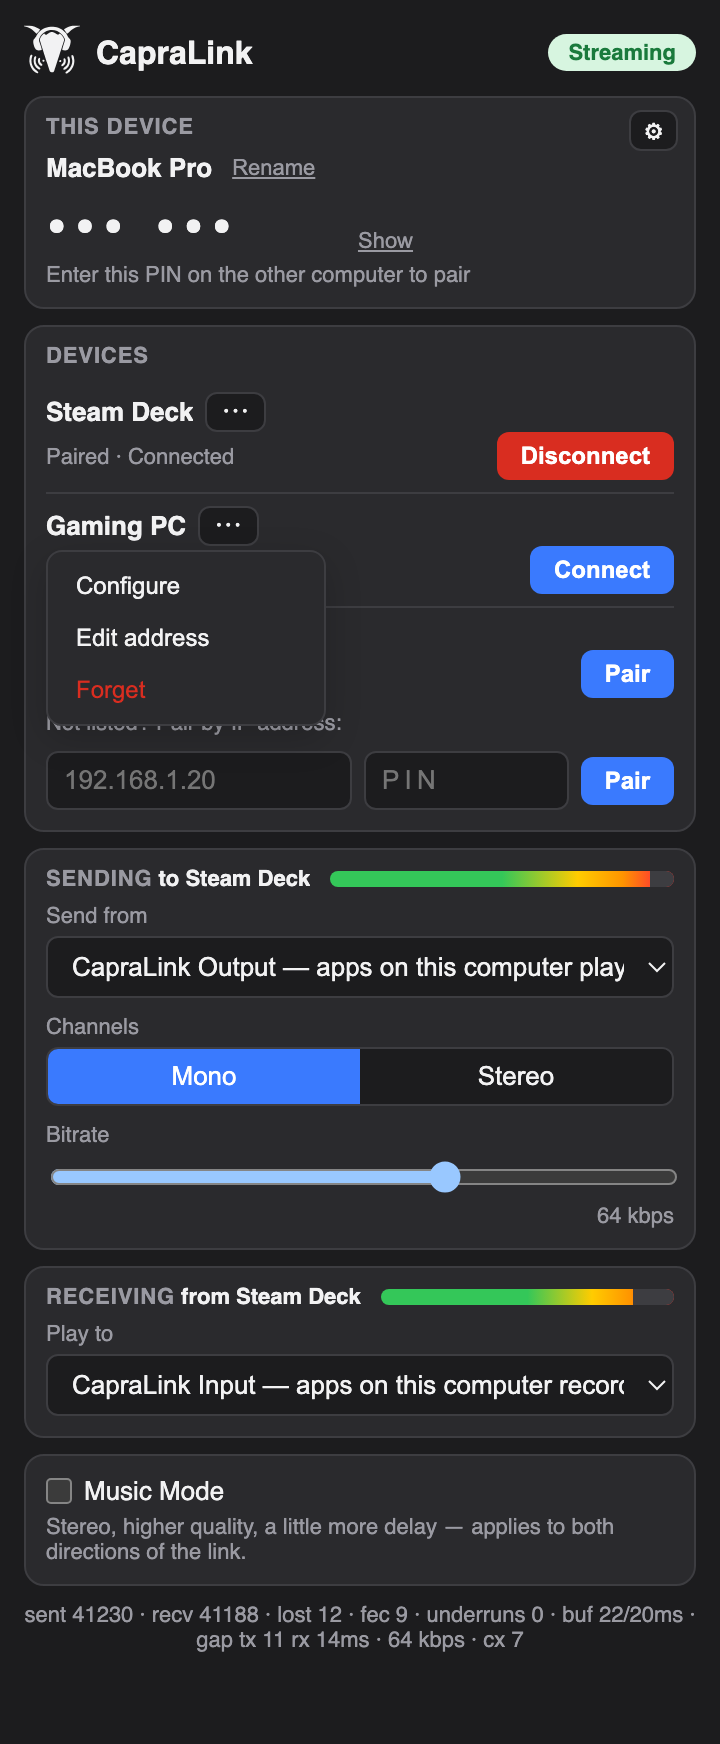
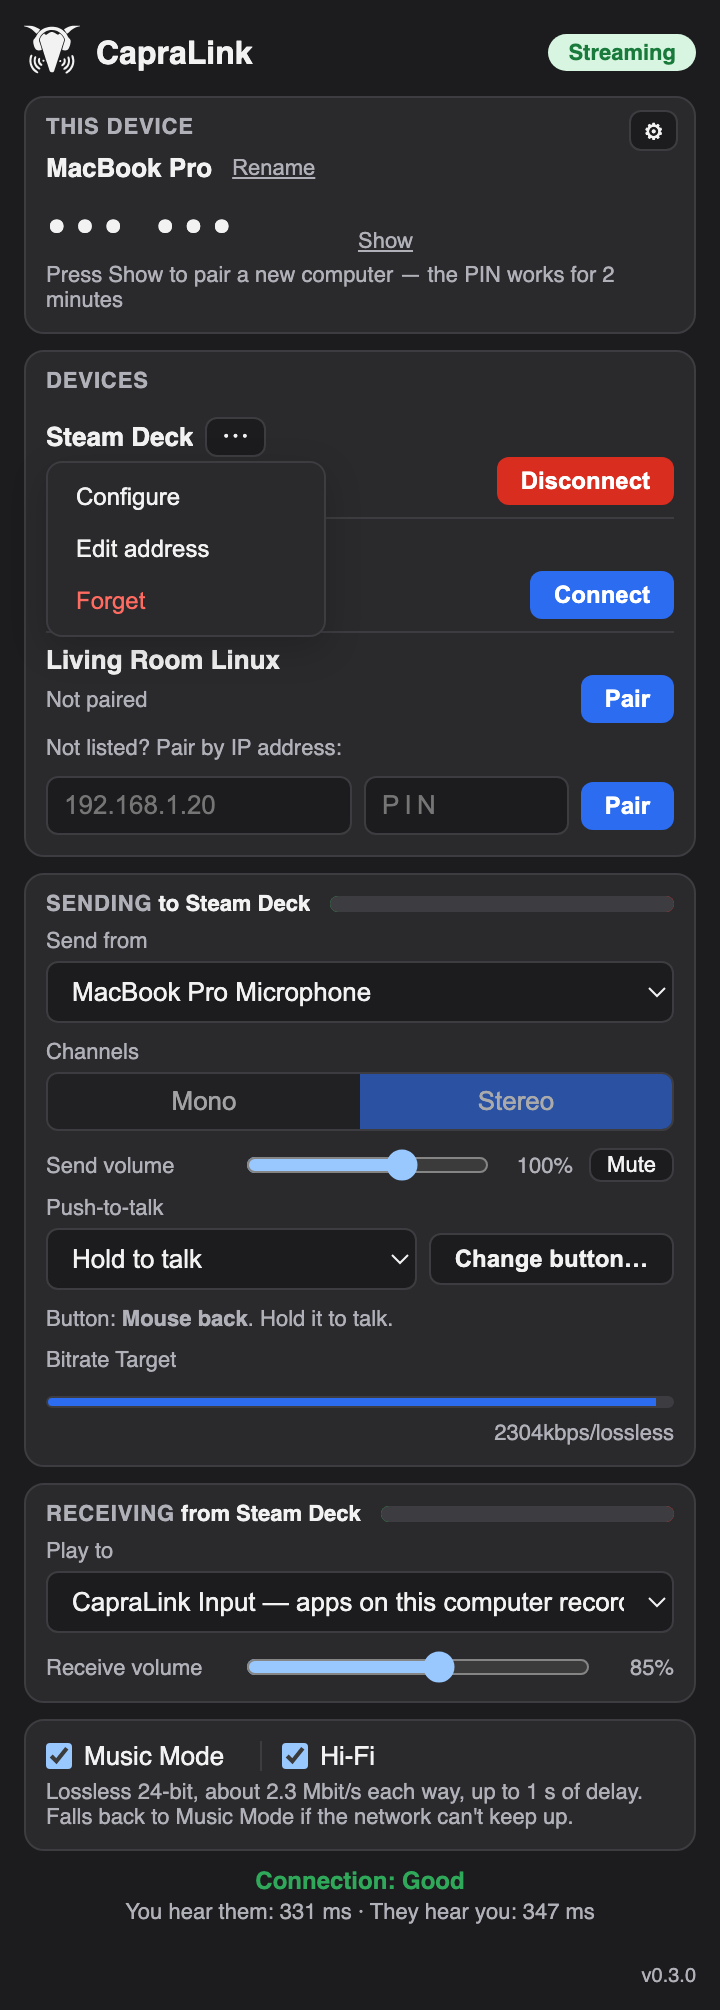
README: new screenshots of the 0.3.0 window; Hi-Fi named Music Mode/Hi-Fi

diff --git a/README.md b/README.md
@@ -46,7 +46,7 @@ next to a game. CapraLink is meant to be set up once, stay in the tray, and get 
   <img src="docs/screenshots/configure.png" width="260" alt="Configuring another computer remotely">
 </p>
 
-<p align="center"><sub>Streaming to a Steam Deck · a device's menu · changing another computer's settings remotely</sub></p>
+<p align="center"><sub>Streaming to a Steam Deck with push-to-talk and Music Mode/Hi-Fi · a device's menu · changing another computer's settings remotely</sub></p>
 
 ## Features
 
@@ -58,7 +58,7 @@ next to a game. CapraLink is meant to be set up once, stay in the tray, and get 
 - **Low delay, light on resources** — Opus audio at 48 kHz with 10 ms frames; bitrate adapts from
   8 to 96 kbps as the network changes, so games aren't affected.
 - **Music Mode** — stereo and higher quality (up to 160 kbps) for music, at the cost of a little more delay.
-- **Hi-Fi** — lossless 24-bit audio on top of Music Mode, with automatic fallback when the network can't keep up.
+- **Music Mode/Hi-Fi** — lossless 24-bit audio on top of Music Mode, with automatic fallback when the network can't keep up.
 - **Push-to-talk** — hold or toggle a key, mouse button or Steam Deck back grip; works while a game has focus.
 - **Volume and mute** — send and receive volume (0–150%) and a mute button, per connection.
 - **Delay readout** — see how much delay each direction has.
@@ -99,14 +99,14 @@ otherwise. It keeps working while a game has focus and never takes the key away 
 - **Windows:** nothing to set up. CapraLink only listens to input (no keyboard hooks).
 - **Steam Deck:** the back grips work directly, with no Steam Input mapping.
 
-**Music Mode and Hi-Fi.** Tick **Music Mode** for stereo, higher-quality audio (it applies to both
-directions, and either computer can turn it on). Tick **Hi-Fi** next to it for lossless 24-bit
+**Music Mode and Music Mode/Hi-Fi.** Tick **Music Mode** for stereo, higher-quality audio (it applies to both
+directions, and either computer can turn it on). Tick **Hi-Fi** next to it for **Music Mode/Hi-Fi**: lossless 24-bit
 audio, about 2.3 Mbit/s each way and up to 1 s of delay. Lost packets are re-sent; if the network
 can't keep up, it falls back to Music Mode by itself and tries again after a clean minute. Both
-computers need CapraLink 0.3.0 or later for Hi-Fi.
+computers need CapraLink 0.3.0 or later for Music Mode/Hi-Fi.
 
 **Delay and connection quality.** Under the window's controls you'll see the connection quality and
-"You hear them: … ms · They hear you: … ms". Normal mode is usually 30–60 ms; Music Mode and Hi-Fi
+"You hear them: … ms · They hear you: … ms". Normal mode is usually 30–60 ms; Music Mode and Music Mode/Hi-Fi
 keep a larger buffer on purpose.
 
 **Steam Deck Game Mode.** In desktop mode, open CapraLink, press ⚙ and turn on **Run in background at login**,
@@ -118,7 +118,7 @@ install the Decky plugin:
 3. In the Quick Access Menu (**…** button) → Decky → ⚙: turn on **Developer mode**, then
    **Developer → Install Plugin from ZIP File** and pick the zip.
 
-The CapraLink panel shows the connection and has Connect/Disconnect, Music Mode, Hi-Fi, Mute,
+The CapraLink panel shows the connection and has Connect/Disconnect, Music Mode, Music Mode/Hi-Fi, Mute,
 volumes, push-to-talk and the delay readout.
 
 **Changing the other computer's settings.** On the other computer, press ⚙ and turn on **Allow paired
@@ -209,7 +209,7 @@ capralink --status              one JSON line: connected {id, name} or null, dev
 capralink --connect NAME_OR_ID  connect to a paired device
 capralink --disconnect
 capralink --music on|off        Music Mode
-capralink --hifi on|off         Hi-Fi (needs Music Mode)
+capralink --hifi on|off         Music Mode/Hi-Fi (needs Music Mode)
 capralink --mute on|off
 capralink --volume send|recv N  0 to 150
 capralink --ptt off|hold|toggle push-to-talk mode
